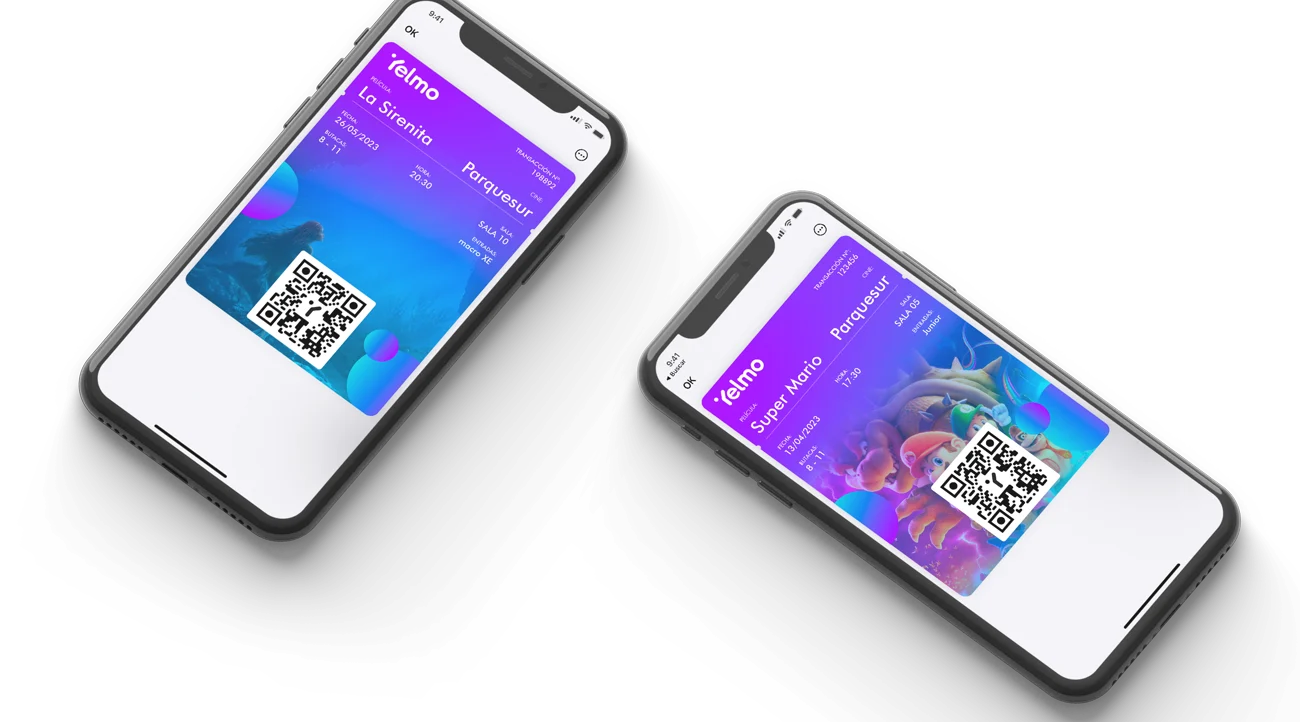
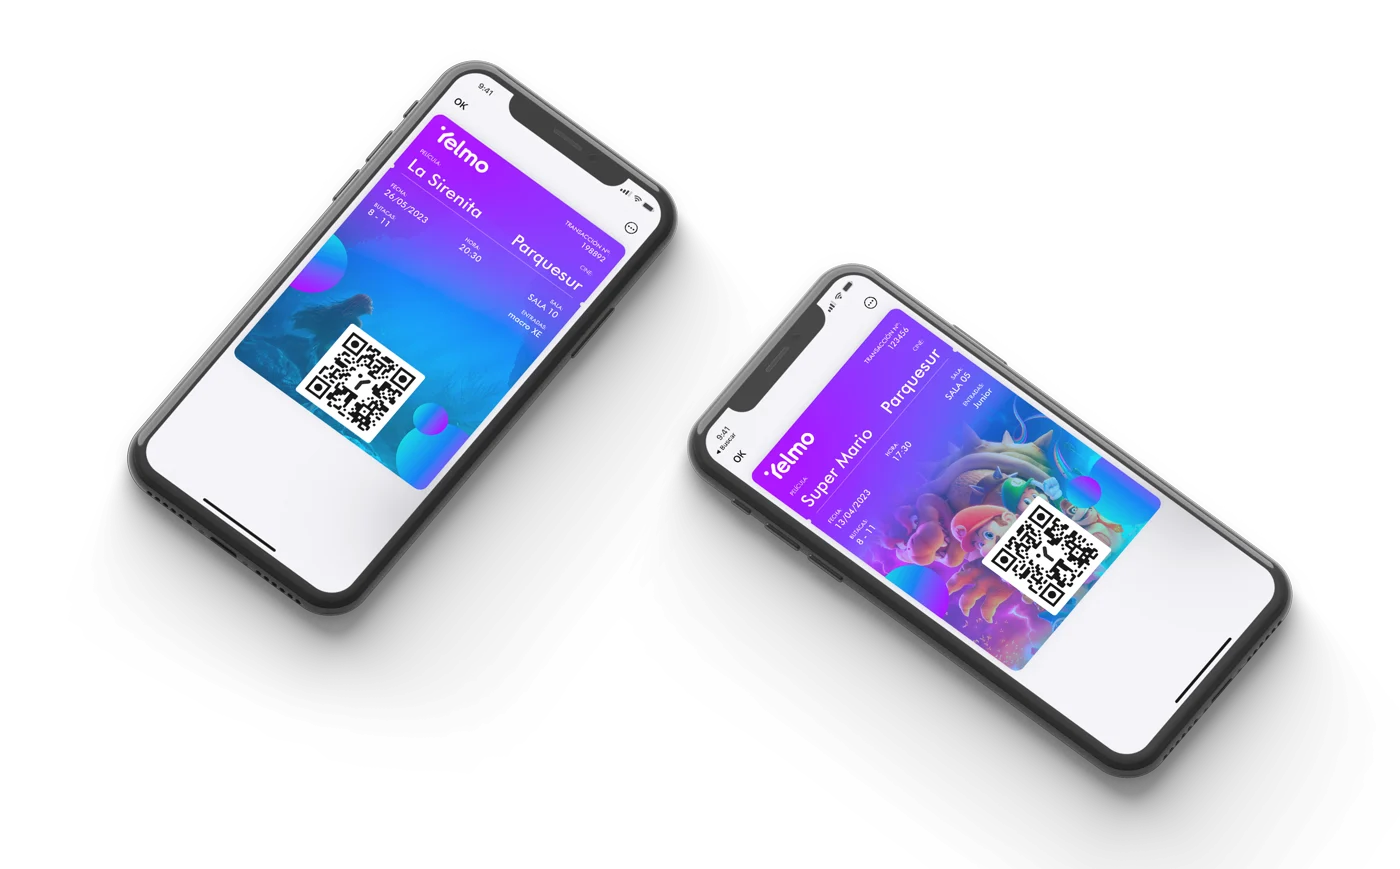
Yelmo: aplicaciones sin fondo ni bandas, con el mupi original

Changed region(s): [[0.4923, 0.2438, 0.9846, 1.0], [0.0308, 0.0, 0.4923, 0.8227]]

diff --git a/src/components/proyectos/yelmo/Aplicaciones.css b/src/components/proyectos/yelmo/Aplicaciones.css
@@ -1,37 +1,17 @@
 /* La lámina de aplicaciones.
-   Caja de proporción fija —la de la lámina original, 2 de alto por 1,25 de
-   ancho— con el morado de la marca y el isotipo repetido y torcido detrás. Las
-   piezas van encima en porcentajes, así que se superponen igual a cualquier
-   ancho. */
+   Caja de proporción fija con el isotipo repetido y torcido detrás. Las piezas
+   van encima en porcentajes, así que se superponen igual a cualquier ancho. */
 .ym-lamina-apps {
   position: relative;
   aspect-ratio: 950 / 1470;
   margin-top: 8px;
   overflow: hidden;
   border-radius: 4px;
-  background-color: #3c1f71;
+  /* Sin papel propio: las piezas y la trama se apoyan en el de la página. */
   background-image: url("/proyectos/yelmo/branding/aplicaciones/trama-y.svg");
   /* La tesela mide 160 y se pide a 9 % del ancho: la trama crece con la lámina
      en vez de hacerse minúscula en pantallas grandes. */
   background-size: 9% auto;
-}
-
-/* Una franja turquesa arriba y otra abajo, como en la lámina. */
-.ym-lamina-apps::before,
-.ym-lamina-apps::after {
-  content: "";
-  position: absolute;
-  left: 0;
-  right: 0;
-  height: 2.2%;
-  background: #00ffe2;
-  z-index: 3;
-}
-.ym-lamina-apps::before {
-  top: 0;
-}
-.ym-lamina-apps::after {
-  bottom: 0;
 }
 
 .ym-app {
@@ -43,21 +23,22 @@
 /* El orden de arriba abajo es también el de delante atrás: cada pieza tapa un
    poco a la anterior, que es lo que las cose en una sola composición. */
 .es-palomitas {
-  top: 2%;
-  right: -4%;
-  width: 78%;
+  top: 3%;
+  left: 50%;
+  transform: translateX(-50%);
+  width: 92%;
   z-index: 2;
 }
 .es-mupi {
-  top: 33%;
-  right: -2%;
-  width: 40%;
+  top: 30%;
+  right: -4%;
+  width: 46%;
   z-index: 1;
 }
 .es-moviles {
-  top: 43%;
+  top: 45%;
   left: -8%;
-  width: 78%;
+  width: 80%;
   z-index: 2;
 }
 .es-fachada {
